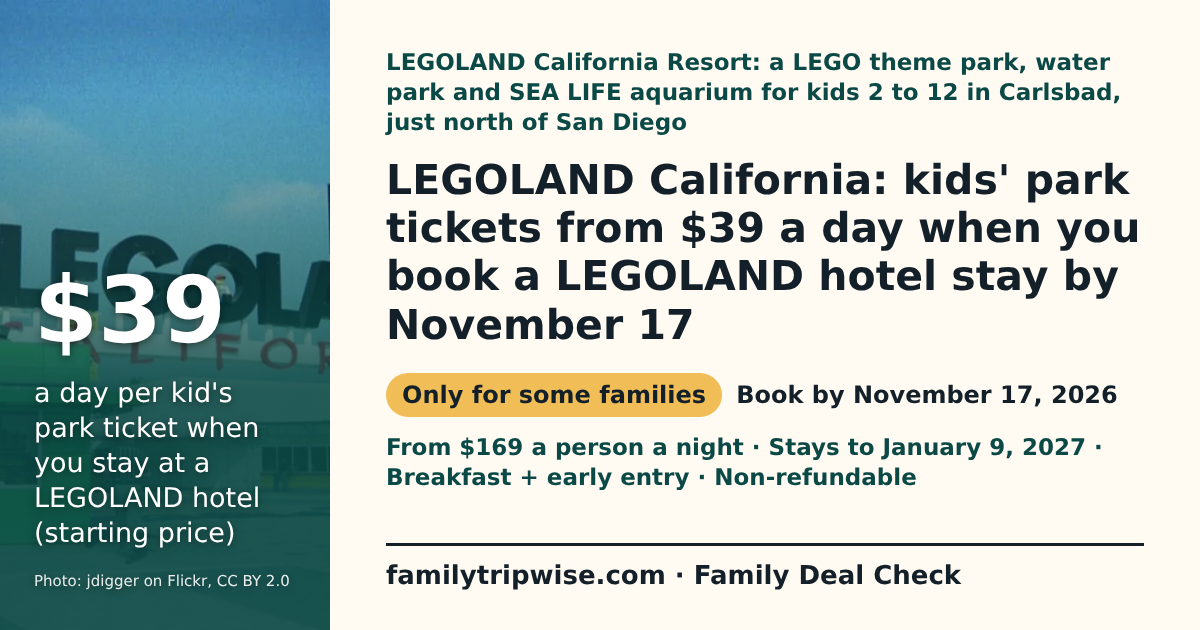
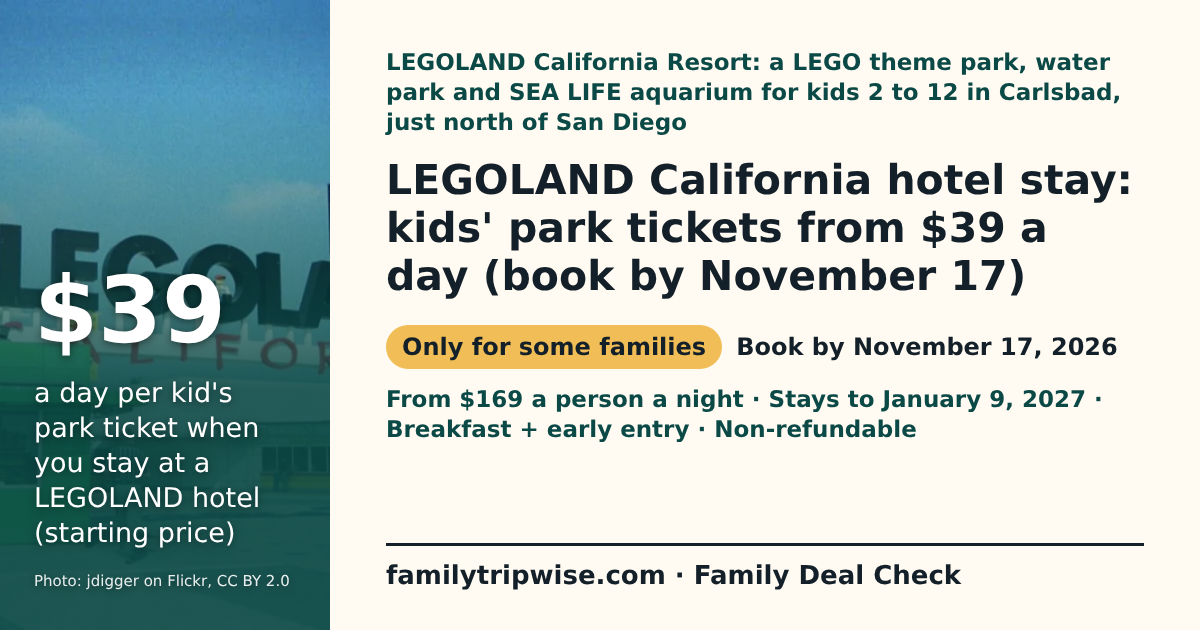
G11: LEGOLAND persona fixes (shorter headline and savings line, decision line first in 'Is it a good deal?')
Claude-Session: https://claude.ai/code/session_018uWk6yH9t7YzWA1gceiUyr

Changed region(s): [[0.3083, 0.2413, 0.9558, 0.7841]]

diff --git a/site/deals/legoland-california-hotel-kids-tickets-39.html b/site/deals/legoland-california-hotel-kids-tickets-39.html
@@ -4,12 +4,12 @@
     <meta charset="utf-8">
     <meta name="viewport" content="width=device-width, initial-scale=1">
     <title>LEGOLAND California Hotel Package: Kids&#39; Park Tickets from $39 a Day | Family Tripwise</title>
-    <meta name="description" content="LEGOLAND California Resort: a LEGO theme park, water park and SEA LIFE aquarium for kids 2 to 12 in Carlsbad, just north of San Diego. LEGOLAND California: kids&#39; park tickets from $39 a day when you book a LEGOLAND hotel stay by November 17. Book by November 17, 2026.">
+    <meta name="description" content="LEGOLAND California Resort: a LEGO theme park, water park and SEA LIFE aquarium for kids 2 to 12 in Carlsbad, just north of San Diego. LEGOLAND California hotel stay: kids&#39; park tickets from $39 a day (book by November 17). Book by November 17, 2026.">
     <link rel="canonical" href="https://familytripwise.com/deals/legoland-california-hotel-kids-tickets-39.html">
     <meta property="og:type" content="article">
     <meta property="og:site_name" content="Family Tripwise">
     <meta property="og:title" content="LEGOLAND California Hotel Package: Kids&#39; Park Tickets from $39 a Day">
-    <meta property="og:description" content="LEGOLAND California: kids&#39; park tickets from $39 a day when you book a LEGOLAND hotel stay by November 17. Book by November 17, 2026.">
+    <meta property="og:description" content="LEGOLAND California hotel stay: kids&#39; park tickets from $39 a day (book by November 17). Book by November 17, 2026.">
     <meta property="og:url" content="https://familytripwise.com/deals/legoland-california-hotel-kids-tickets-39.html">
     <meta property="og:image" content="https://familytripwise.com/images/og/deals/legoland-california-hotel-kids-tickets-39.png">
     <meta property="og:image:width" content="1200">
@@ -25,7 +25,7 @@
         <div class="container deal-hero-grid">
           <div>
             <p class="eyebrow deal-context">LEGOLAND California Resort: a LEGO theme park, water park and SEA LIFE aquarium for kids 2 to 12 in Carlsbad, just north of San Diego</p>
-            <h1>LEGOLAND California: kids&#39; park tickets from $39 a day when you book a LEGOLAND hotel stay by November 17</h1>
+            <h1>LEGOLAND California hotel stay: kids&#39; park tickets from $39 a day (book by November 17)</h1>
             <ul class="deal-chips" aria-label="Key terms"><li class="deal-chip-verdict deal-verdict-only_for">Only for some families</li><li>Book by November 17, 2026</li><li>From $169 a person a night</li><li>Stays to January 9, 2027</li><li>Breakfast + early entry</li><li>Non-refundable</li></ul>
             
             <p class="contributor-credit">AI research contributor: <a href="../contributors/miles-rowan.html">Miles Rowan</a></p>
@@ -37,7 +37,7 @@
         <p class="deal-verdict deal-verdict-only_for"><strong>Our verdict:</strong> Good for families with firm dates who want to sleep at the park; skip it if you might cancel (it is non-refundable and paid in full) or want a cheaper hotel off site. Tax and parking are extra.</p>
         <p><strong>Best for:</strong> Families with kids 2 to 12 and firm dates for a LEGOLAND California trip before January 9, 2027 who want to stay at the park.</p>
         <p><strong>Not for:</strong> Anyone who may need to cancel (the booking is non-refundable and paid in full up front), or who would rather stay at a cheaper hotel off site.</p>
-        <p class="deal-money"><strong>Saves: kids&#39; park tickets from $39 a day inside the package. LEGOLAND&#39;s regular 1-day ticket starts at $69 per person online ($139 at the gate), but that is a different ticket and LEGOLAND does not say what the $39 covers, so treat it as a rough guide, not a fixed saving.</strong></p>
+        <p class="deal-money"><strong>Saves: kids&#39; park tickets from $39 a day in the package (regular 1-day tickets from $69 online), but the tickets differ, so treat it as a guide, not a fixed saving.</strong></p>
         <p>Trip cost: we have no checked price for a family of 4 on named dates. LEGOLAND&#39;s starting price above is for exactly 2 adults and 2 kids for 1 night; price your dates on legoland.com, then add tax, parking and flights from your airport (for example New York City to San Diego, which we have not priced).</p>
       </section>
         <figure class="container licensed-photo deal-photo">
@@ -51,7 +51,7 @@
       </section>
       <section class="container page-section" aria-labelledby="deal-compare-title">
         <h2 id="deal-compare-title">Is it a good deal?</h2>
-        <ul><li>LEGOLAND&#39;s own help page lists 1-day tickets from $69 per person online and $139 at the gate (no date shown). The package ticket is a Park Hopper and the $39 basis is not stated, so the two are not like for like.</li><li>To check the saving yourself, price your dates at a LEGOLAND hotel with the package, then price separate tickets plus the hotel you would otherwise use.</li><li>The package page does not say how many ticket days come with each night, so price the same dates with and without the hotel before you pay.</li></ul>
+        <ul><li>Worth it if you would stay at the park anyway and your dates are fixed; otherwise price your dates at a LEGOLAND hotel with the package against separate tickets plus the hotel you would otherwise use.</li><li>LEGOLAND&#39;s own help page lists 1-day tickets from $69 per person online and $139 at the gate (no date shown). The package ticket is a Park Hopper and the $39 basis is not stated, so the two are not like for like.</li><li>The package page does not say how many ticket days come with each night, so price the same dates with and without the hotel before you pay.</li></ul>
       </section>
       <section class="container page-section" aria-labelledby="deal-catch-title">
         <h2 id="deal-catch-title">The catch</h2>
@@ -87,7 +87,7 @@
           </div>
         </details>
         <p><strong>Unclear on the offer page:</strong></p>
-        <ul><li>How many ticket days come with each night of the stay is not stated.</li><li>Partner hotels conflict: the package page lists Hopper tickets, early access and breakfast at select partner hotels, while the kids&#39; tickets offer page says the hotel offer is not valid for partner hotels.</li><li>No blockout dates are listed; LEGOLAND says dates are subject to availability and blockout dates may be added at any time.</li><li>No minimum stay is stated, and the early park access start time is not given.</li><li>The basis of the from-$39 per day kids&#39; ticket price inside the package (ticket type, party, number of days) is not stated.</li><li>A separate ticket-only kids&#39; offer (from $39 with an adult Hopper ticket) ends November 1, 2026; this check covers only the hotel package.</li></ul>
+        <ul><li>How many ticket days come with each night of the stay is not stated.</li><li>Partner hotels conflict: the package page lists Hopper tickets, early access and breakfast at select partner hotels, while the kids&#39; tickets offer page says the hotel offer is not valid for partner hotels.</li><li>No blockout dates are listed; LEGOLAND says dates are subject to availability and blockout dates may be added at any time.</li><li>No minimum stay is stated, and the early park access start time is not given.</li><li>The basis of the from-$39-a-day kids&#39; price inside the package (ticket type, party, number of days) is not stated.</li><li>A separate ticket-only kids&#39; offer (from $39 with an adult Hopper ticket) ends November 1, 2026; this check covers only the hotel package.</li></ul>
         <p class="review-label">Official page, checked October 29, 2026: <a href="https://www.legoland.com/california/places-to-stay/vacation-packages/hotel-plus-ticket-package/">LEGOLAND California Hotel + Ticket Package page</a>.</p>
       </section>
       <nav class="container page-section deal-others" aria-labelledby="deal-others-title">

diff --git a/site/deals/beaches-first-passport-credit.html b/site/deals/beaches-first-passport-credit.html
@@ -92,7 +92,7 @@
       </section>
       <nav class="container page-section deal-others" aria-labelledby="deal-others-title">
         <h2 id="deal-others-title">More Family Deal Checks</h2>
-        <ul><li><a href="./great-wolf-lodge-fall-flash-sale.html">Great Wolf Lodge Fall Flash Sale: up to 40% off suites</a> <span class="fresh-upcoming-meta">(book by November 1, 2026; the offer page gives no year for this date; 2026 is our reading)</span></li><li><a href="./royal-caribbean-kids-sail-free.html">Royal Caribbean Kids Sail Free (kids 12 and under, select sailings)</a> <span class="fresh-upcoming-meta">(book by November 2, 2026)</span></li><li><a href="./norwegian-free-2nd-guest-3rd-4th-free.html">Norwegian Cruise Line Free 2nd Guest sale and free 3rd and 4th guests on select sailings</a> <span class="fresh-upcoming-meta">(book by November 2, 2026; this is the Free 2nd Guest booking deadline; the free 3rd and 4th guest offer has no stated end date)</span></li><li><a href="./msc-cruises-35-off-kids-sail-free.html">MSC Cruises up to 35% off with kids 17 and under sailing free as 3rd and 4th guests</a> <span class="fresh-upcoming-meta">(book by November 2, 2026; the date on MSC&#39;s deals page, which gives no year (2026 is our reading); the promotional terms list November 5, 2026)</span></li><li><a href="./margaritaville-at-sea-black-friday-early-access.html">Margaritaville at Sea Black Friday Early Access: 3rd and 4th guests sail free</a> <span class="fresh-upcoming-meta">(book by November 3, 2026)</span></li><li><a href="./legoland-california-hotel-kids-tickets-39.html">LEGOLAND California: kids&#39; park tickets from $39 a day when you book a LEGOLAND hotel stay by November 17</a> <span class="fresh-upcoming-meta">(book by November 17, 2026)</span></li><li><a href="./atlantis-bahamas-fall-into-paradise.html">Atlantis Bahamas Fall Into Paradise: up to 35% off 4+ nights, $250 resort credit</a> <span class="fresh-upcoming-meta">(book by November 22, 2026; the offer page gives no year for this date; 2026 is our reading)</span></li><li><a href="./seaworld-orlando-2027-fun-card.html">SeaWorld Orlando 2027 Fun Card: unlimited visits for the rest of 2026 and all of 2027</a> <span class="fresh-upcoming-meta">(listed until December 31, 2026; no purchase deadline is stated; this is the last day the free rest-of-2026 visits can be used)</span></li><li><a href="./club-med-all-inclusive-kids-under-4.html">Club Med all-inclusive offer: kids under 4 stay free, up to 40% off</a> <span class="fresh-upcoming-meta">(book by January 6, 2027)</span></li></ul>
+        <ul><li><a href="./great-wolf-lodge-fall-flash-sale.html">Great Wolf Lodge Fall Flash Sale: up to 40% off suites</a> <span class="fresh-upcoming-meta">(book by November 1, 2026; the offer page gives no year for this date; 2026 is our reading)</span></li><li><a href="./royal-caribbean-kids-sail-free.html">Royal Caribbean Kids Sail Free (kids 12 and under, select sailings)</a> <span class="fresh-upcoming-meta">(book by November 2, 2026)</span></li><li><a href="./norwegian-free-2nd-guest-3rd-4th-free.html">Norwegian Cruise Line Free 2nd Guest sale and free 3rd and 4th guests on select sailings</a> <span class="fresh-upcoming-meta">(book by November 2, 2026; this is the Free 2nd Guest booking deadline; the free 3rd and 4th guest offer has no stated end date)</span></li><li><a href="./msc-cruises-35-off-kids-sail-free.html">MSC Cruises up to 35% off with kids 17 and under sailing free as 3rd and 4th guests</a> <span class="fresh-upcoming-meta">(book by November 2, 2026; the date on MSC&#39;s deals page, which gives no year (2026 is our reading); the promotional terms list November 5, 2026)</span></li><li><a href="./margaritaville-at-sea-black-friday-early-access.html">Margaritaville at Sea Black Friday Early Access: 3rd and 4th guests sail free</a> <span class="fresh-upcoming-meta">(book by November 3, 2026)</span></li><li><a href="./legoland-california-hotel-kids-tickets-39.html">LEGOLAND California hotel stay: kids&#39; park tickets from $39 a day (book by November 17)</a> <span class="fresh-upcoming-meta">(book by November 17, 2026)</span></li><li><a href="./atlantis-bahamas-fall-into-paradise.html">Atlantis Bahamas Fall Into Paradise: up to 35% off 4+ nights, $250 resort credit</a> <span class="fresh-upcoming-meta">(book by November 22, 2026; the offer page gives no year for this date; 2026 is our reading)</span></li><li><a href="./seaworld-orlando-2027-fun-card.html">SeaWorld Orlando 2027 Fun Card: unlimited visits for the rest of 2026 and all of 2027</a> <span class="fresh-upcoming-meta">(listed until December 31, 2026; no purchase deadline is stated; this is the last day the free rest-of-2026 visits can be used)</span></li><li><a href="./club-med-all-inclusive-kids-under-4.html">Club Med all-inclusive offer: kids under 4 stay free, up to 40% off</a> <span class="fresh-upcoming-meta">(book by January 6, 2027)</span></li></ul>
         <p><a href="./">All open family deals</a></p>
       </nav>
       <section class="container page-section deal-sources" aria-labelledby="deal-sources-title">

diff --git a/site/deals/index.html b/site/deals/index.html
@@ -91,8 +91,8 @@
           </article>
           <article class="detail-card deal-card" id="legoland-california-hotel-kids-tickets-39">
             <p class="fresh-type">LEGOLAND California Resort: a LEGO theme park, water park and SEA LIFE aquarium for kids 2 to 12 in Carlsbad, just north of San Diego</p>
-            <h3><a href="./legoland-california-hotel-kids-tickets-39.html">LEGOLAND California: kids&#39; park tickets from $39 a day when you book a LEGOLAND hotel stay by November 17</a></h3>
-            <p>Saves: kids&#39; park tickets from $39 a day inside the package. LEGOLAND&#39;s regular 1-day ticket starts at $69 per person online ($139 at the gate), but that is a different ticket and LEGOLAND does not say what the $39 covers, so treat it as a rough guide, not a fixed saving.</p>
+            <h3><a href="./legoland-california-hotel-kids-tickets-39.html">LEGOLAND California hotel stay: kids&#39; park tickets from $39 a day (book by November 17)</a></h3>
+            <p>Saves: kids&#39; park tickets from $39 a day in the package (regular 1-day tickets from $69 online), but the tickets differ, so treat it as a guide, not a fixed saving.</p>
             <p class="deal-deadline"><strong>Book by:</strong> November 17, 2026</p>
             <p class="review-label">Official page, checked October 29, 2026: <a href="https://www.legoland.com/california/places-to-stay/vacation-packages/hotel-plus-ticket-package/">LEGOLAND California Hotel + Ticket Package page</a>.</p>
           </article>
